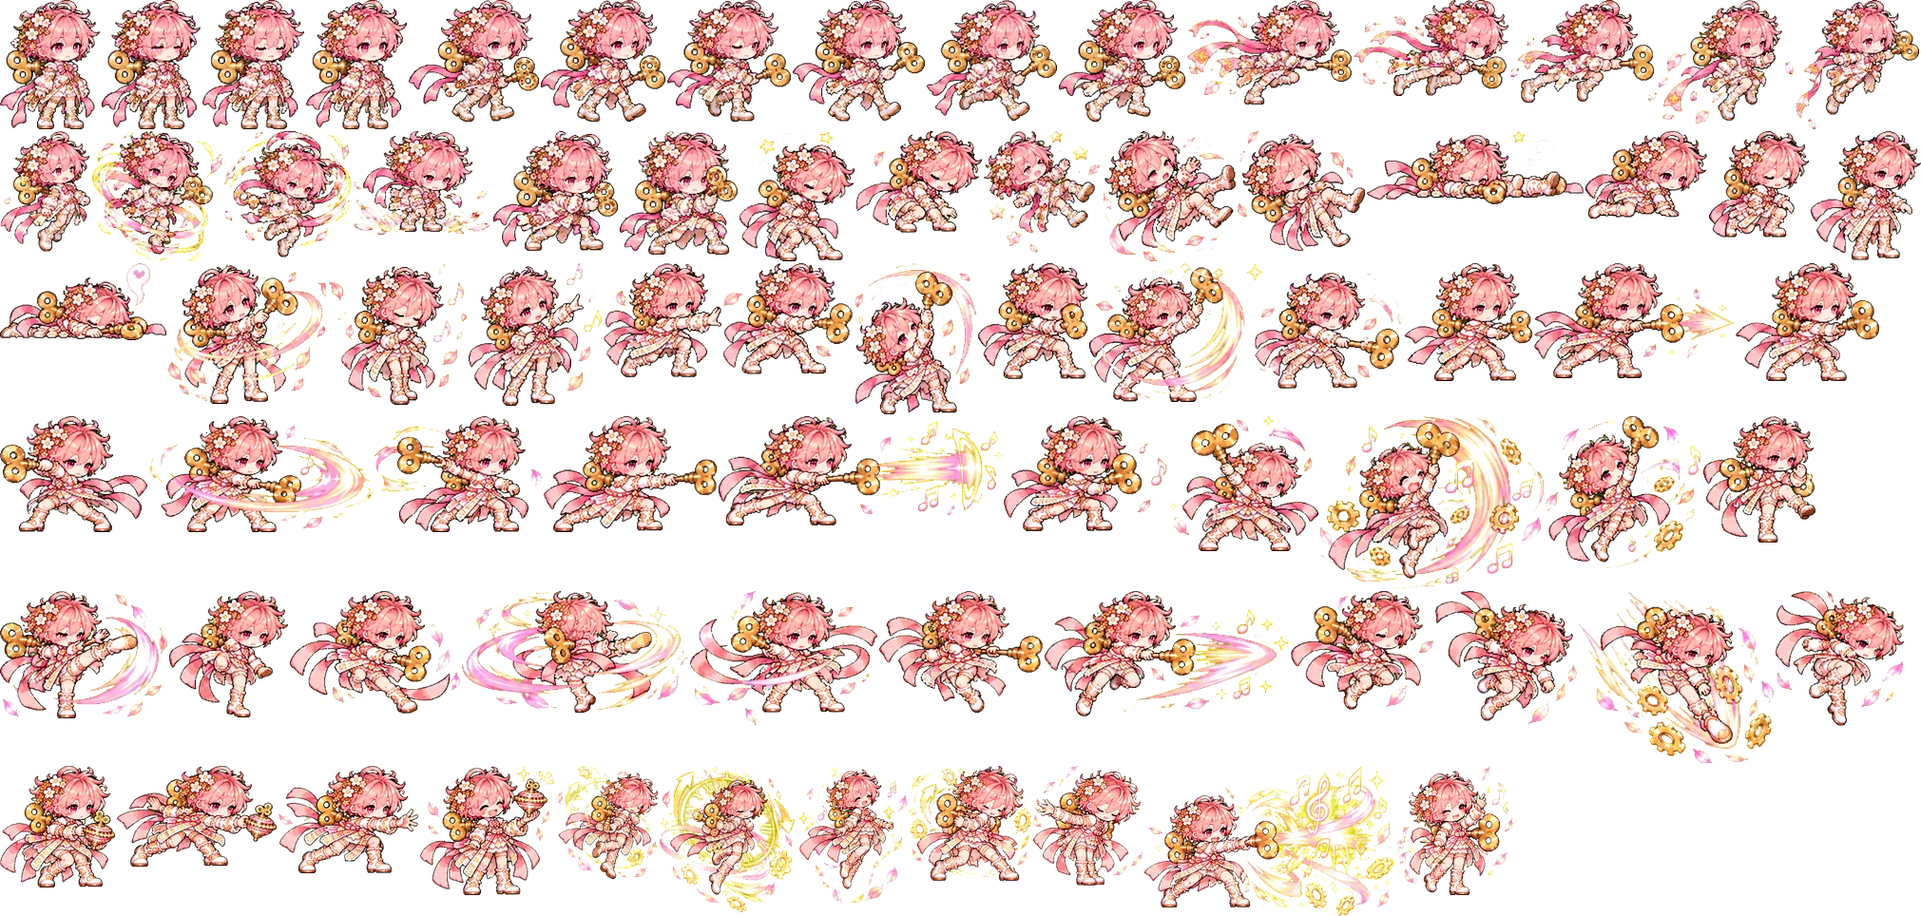
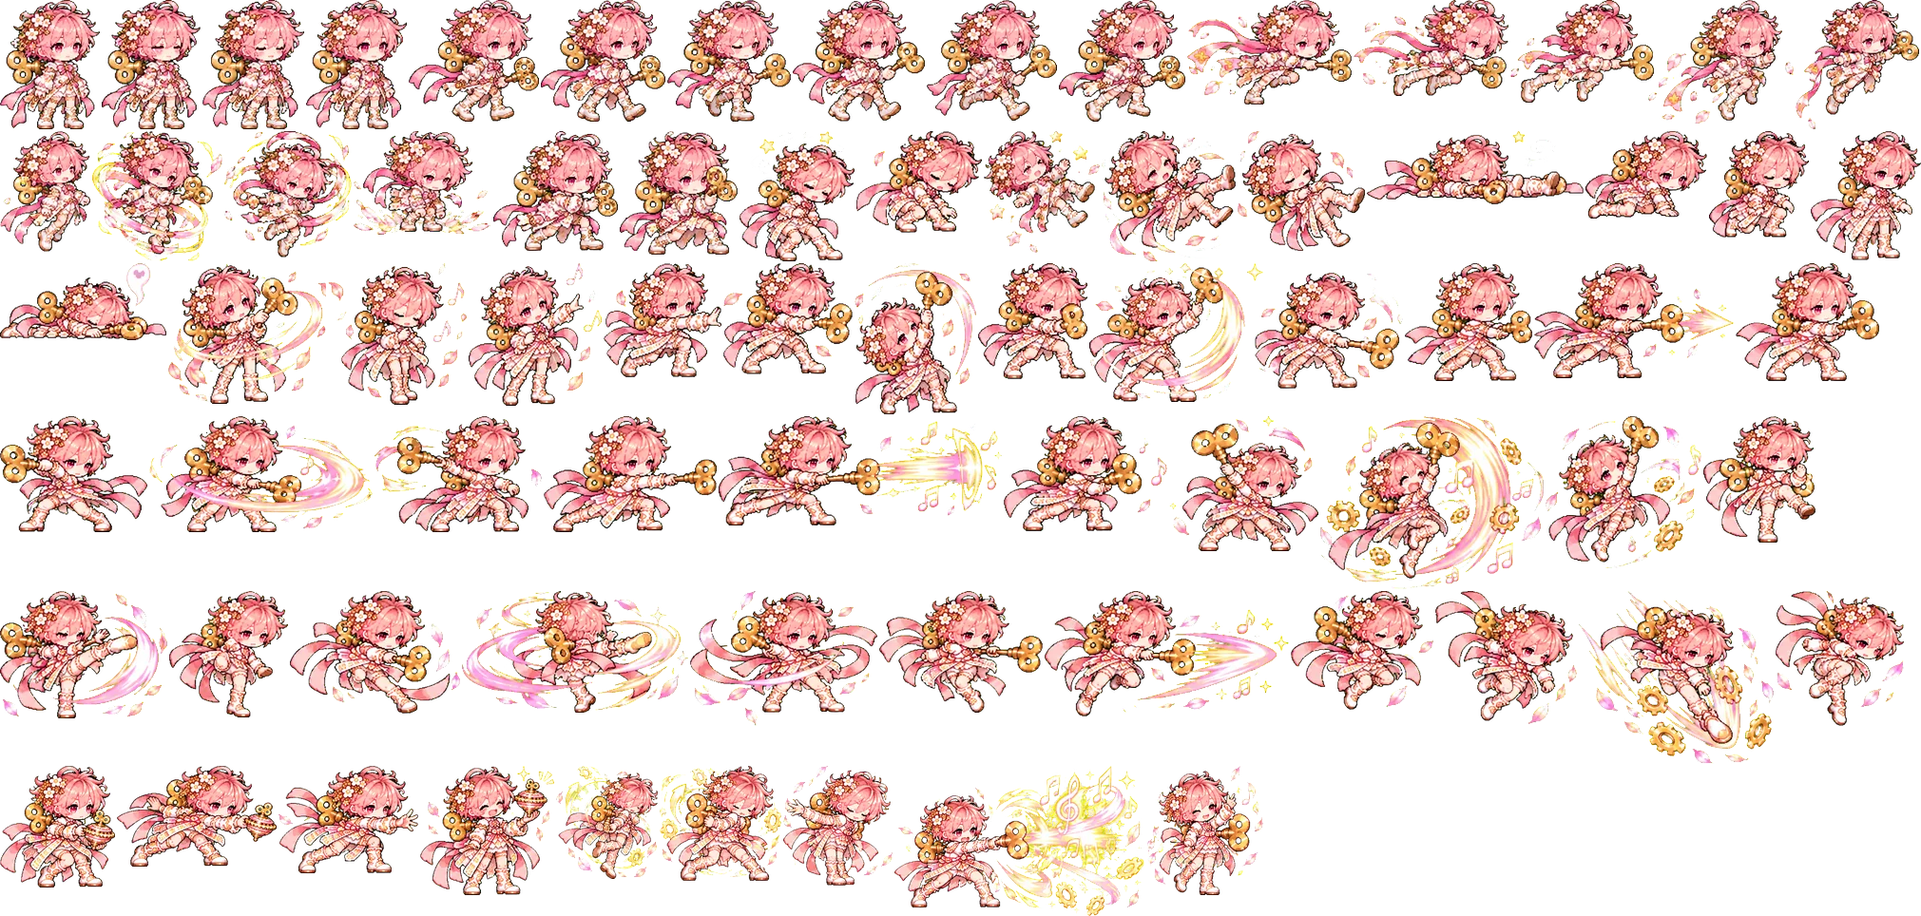
격투: 포르테 공중 L 을 「되감기 낙하」로 바꿈 (SIM_REV 27 · AI_REV 12)
- 태엽 되감기(자리 되감기 · 체력 회복)는 맞는 동안 못 눌러서 쓸 데가 없었음 → 뺌
- 앞쪽 아래로 내리찍고, 맞든 막히든 땅에 닿든 뛰어내린 공중 자리로 되감겨 돌아감 (빈틈 없음, 낭떠러지면 260px 아래에서)
- 맞히면 상대를 내 앞으로 약 12프레임 만에 끌어올려 띄움 → 바로 공중 약 (시뮬: 되감기 뒤 다음 타까지 약 15프레임)
- 발생 7 · 피해 62 · 재사용 대기 130, 그림은 태엽 감기 → 내리찍기 발차기, 내리찍는 동안 분홍 · 금빛 줄
- AI: 아래 앞쪽 상대에게 가끔 내리찍음

Changed region(s): [[0.3429, 0.8402, 0.7793, 1.0]]

diff --git a/web/src/lib/fight/sim.ts b/web/src/lib/fight/sim.ts
@@ -80,8 +80,6 @@ export const IN = {
 const IN_MASK = 511;
 
 const HIST = 24;
-/** 높이 기록 칸 수 (포르테 공중 「태엽 되감기」가 몇 프레임 전 높이로 되감을 수 있나) */
-const HH = 32;
 const INTRO = 100;
 const ROUND_END = 170;
 export const ROUND_SEC = 90;
@@ -302,10 +300,9 @@ export interface Fighter {
   inv: number;
   /** 최근 입력 (마지막이 이번 프레임) */
   hist: number[];
-  /** 최근 자리 · 체력 (마지막이 이번 프레임, HH 칸) — 포르테 「태엽 되감기」 */
-  hh: number[];
-  hx: number[];
-  hhp: number[];
+  /** 포르테 공중 「되감기 낙하」를 시작한 자리 (내리찍은 뒤 여기로 되돌아옴) */
+  rwX: number;
+  rwH: number;
   /** 앙코르 기록: 최근 내가 맞힌 타격 [프레임, 피해] 쌍 (오래된 건 지움) */
   enc: number[];
   /** 앙코르 진행 프레임 (0 = 아님) · 다시 넣을 타격 [몇 프레임째, 피해] 쌍 · 붙잡아 둔 상대 자리 */
@@ -543,9 +540,8 @@ function newFighter(ch: number, side: 0 | 1, map: MapDef): Fighter {
     recov: 0,
     inv: 0,
     hist: new Array(HIST).fill(0),
-    hh: new Array(HH).fill(h),
-    hx: new Array(HH).fill(x),
-    hhp: new Array(HH).fill(CHARS[ch].hp),
+    rwX: x,
+    rwH: h,
     enc: [],
     encT: 0,
     encQ: [],
@@ -601,13 +597,13 @@ export function clone(s: State): State {
     ev: s.ev.slice(),
   };
 }
-const cloneF = (f: Fighter): Fighter => ({ ...f, hist: f.hist.slice(), hh: f.hh.slice(), hx: f.hx.slice(), hhp: f.hhp.slice(), enc: f.enc.slice(), encQ: f.encQ.slice() });
+const cloneF = (f: Fighter): Fighter => ({ ...f, hist: f.hist.slice(), enc: f.enc.slice(), encQ: f.encQ.slice() });
 
 /**
  * 이 빌드의 게임 데이터 지문 (캐릭터 성능·맵) — 온라인에서 서로 다른 빌드끼리 붙었는지 확인.
  * 계산 방식(sim.ts)만 바꿨을 땐 SIM_REV를 올릴 것.
  */
-const SIM_REV = 26;
+const SIM_REV = 27;
 export const BUILD_ID = (() => {
   const str = SIM_REV + JSON.stringify(CHARS.map((c) => [c.hp, c.walk, c.jumpVx, c.dash, c.cd, c.glide, c.hurt, c.width, c.moves])) + JSON.stringify(MAPS.map((m) => [m.plats, m.spawn]));
   let h = 2166136261;
@@ -764,7 +760,7 @@ export function hurtRect(f: Fighter): Rect | null {
 /** 지금 판정이 살아 있는 공격 박스 */
 export function hitRect(f: Fighter): Rect | null {
   const m = moveOf(f);
-  if (f.st !== "atk" || !m || m.proj || m.summon || m.rewind || f.hit) return null;
+  if (f.st !== "atk" || !m || m.proj || m.summon || f.hit) return null;
   if (f.t < m.startup || f.t >= m.startup + m.active) return null;
   return boxRect(f, m.box);
 }
@@ -826,6 +822,7 @@ function startMove(s: State, i: number, id: MoveId) {
   f.aerial = airborneS(s, f) ? 1 : 0;
   const m = moveOf(f)!;
   if (f.aerial && m.hover) f.vh = Math.max(f.vh, m.hover);
+  if (f.aerial && m.rwDive) ((f.rwX = f.x), (f.rwH = f.h));
   if (id === "S") f.cd = m.cd ?? charOf(f).cd; // (공중 버전만 재사용 대기가 다를 수 있음)
   f.chg = 0;
   if (id === "G") f.meter = Math.max(0, f.meter - GUARD_COUNTER_COST);
@@ -1181,7 +1178,6 @@ function control(s: State, i: number) {
       }
       // 연타기: 일정 프레임마다 다시 맞을 수 있게
       if (m.multi && f.t > m.startup && (f.t - m.startup) % m.multi === 0) f.hit = 0;
-      if (m.rewind && f.t === m.startup) rewindAir(s, i, m.rewind);
       if (m.proj && f.t === m.startup) {
         const d = m.proj;
         // 공중에서 쏘면 앞쪽 아래로 비스듬히 내리꽂음 (flat 탄은 수평)
@@ -1230,8 +1226,6 @@ function control(s: State, i: number) {
           return;
         }
       }
-      // 태엽 되감기 뒤: 남은 동작 없이 바로 공중 약 · 발차기 (공중 콤보를 끊김 없이 이어 감)
-      if (m.rewind && f.t > m.startup && !onGround(s, f) && airAttack(s, i)) return;
       // 공중 연속 공격: 공중 약·발차기를 맞히면 짧은 창 안에 다음 공중 약·발차기로 이어 침 (약 4 + 발차기 2까지)
       if (air && f.hit && (f.mv === "J" || f.mv === "K") && f.t > m.startup && f.t <= m.startup + m.active + AIR_CHAIN_WIN) {
         if (airAttack(s, i)) return;
@@ -1398,6 +1392,11 @@ function landed(s: State, i: number, f: Fighter) {
   f.airDash = 0;
   f.dashT = 0;
   const lm = moveOf(f);
+  // 포르테 되감기 낙하: 땅에 닿으면 (판정이 나온 뒤) 시작한 공중 자리로 되돌아감
+  if (f.st === "atk" && f.aerial && f.mv === "S" && lm?.rwDive && f.t >= lm.startup) {
+    rewindDive(s, i);
+    return;
+  }
   // 땅에 닿기 직전에 낸 공중 아이덴티티: 판정이 나오기 전에 착지하면 아무것도 안 나가고 재사용 대기만 돌던 것 (10.16 제나)
   // → 땅 버전으로 이어서 냄 (지난 시작 프레임은 그대로 셈, 재사용 대기는 땅 버전 값)
   if (f.st === "atk" && f.aerial && f.mv === "S" && lm && f.t < lm.startup && !f.hit) {
@@ -1542,10 +1541,6 @@ function respawn(s: State, i: number) {
   f.mark = 0;
   f.trapT = 0;
   f.inv = again ? 0 : RESPAWN_INV;
-  // 되감기 기록도 새 자리로 (떨어지던 자리로 되감지 않게)
-  f.hh.fill(f.h);
-  f.hx.fill(f.x);
-  f.hhp.fill(f.hp);
 }
 
 function physics(s: State, i: number) {
@@ -2447,52 +2442,40 @@ function checkKO(s: State) {
 }
 
 /**
- * 포르테 공중 「태엽 되감기」: 내 높이를 back 프레임 전으로 (더 높았을 때만) + 공중 약 · 발차기 횟수 초기화.
- * 가까운 상대가 공중에서 맞는 중(공중 콤보)이면 상대 높이도 되감고 경직을 이어 줌
+ * 포르테 공중 「되감기 낙하」: 내리찍기가 맞거나(막혀도) 땅에 닿으면 시작한 공중 자리로 되돌아감 (빈틈 없음).
+ * 맞혔으면 상대를 내 앞 · 내 높이 쪽으로 끌어올려 띄움 → 바로 공중 콤보
  */
-function rewindAir(s: State, i: number, back: number) {
+function rewindDive(s: State, i: number) {
   const f = s.p[i];
   const o = s.p[1 - i];
-  const k = Math.max(0, HH - 1 - back);
-  // 콤보 중이면 (가까운 상대가 맞는 중) 둘이 같이 — 판단은 되감기 전 자리로
-  const combo = o.st === "hit" && o.combo > 0 && o.hp > 0 && !o.kd && Math.abs(o.x - f.x) < 160 * SUB;
+  const hit = f.hit && o.st === "hit" && !o.kd && o.hp > 0;
   const fx = f.x,
     fh = f.h;
-  if (combo) {
-    // 같이 되감기: 서로 자리(간격)는 그대로 두고, 둘 다 지난 0.5초 중 가장 높았던 높이까지 거슬러 올라감 → 그대로 이어 침
-    // (0.5초 전 자리로 각자 돌아가면 띄우기 전 자리가 섞여 간격이 엉망이 됨)
-    let top = f.h;
-    for (let j = k; j < HH; j++) top = Math.max(top, f.hh[j]);
-    const dh = top - f.h;
-    f.h += dh;
-    o.h += dh;
-    o.x = f.x + (o.x - f.x);
-  } else {
-    f.x = f.hx[k];
-    f.h = f.hh[k];
-  }
+  f.x = f.rwX;
+  f.h = f.rwH;
   f.vx = 0;
   f.vh = 0;
+  f.dive = 0;
+  f.st = "jump";
+  f.mv = "";
+  f.t = 0;
+  f.aerial = 0;
   f.airUsed = 0;
   f.airK = 0;
   f.airS = 0;
-  // 되감는 동안 잃은 체력의 절반을 되찾음
-  const lost = f.hhp[k] - f.hp;
-  if (lost > 0) f.hp = Math.min(CHARS[f.ch].hp, f.hp + (lost >> 1));
-  // 이 프레임부터 기록도 되감긴 자리로 (바로 또 써도 같은 자리)
-  f.hh.fill(f.h);
-  f.hx.fill(f.x);
-  f.hhp.fill(f.hp);
-  s.ev.push({ k: "rewind", p: i, x: f.x, h: f.h, v: Math.max(0, lost >> 1) });
-  if (fx !== f.x || fh !== f.h) s.ev.push({ k: "rewind", p: i, x: fx, h: fh, v: -1 });
-  if (combo) {
+  s.ev.push({ k: "rewind", p: i, x: fx, h: fh, v: -1 });
+  s.ev.push({ k: "rewind", p: i, x: f.x, h: f.h, v: 0 });
+  if (hit) {
+    // 끌어올리기: 내 높이 조금 아래까지 솟구치게 (천천히 떨어지는 상태), 가로로는 내 앞으로
+    const dh = Math.max(0, f.h - 24 * SUB - o.h);
+    // 약 12프레임 만에 내 앞 높이까지 올라오게 (꼭대기가 거기쯤) — 바로 공중 약으로 받아 침
+    o.vh = Math.max(isqrt(2 * FLOAT_G * 60 * SUB), Math.trunc(dh / 12) + FLOAT_G * 6);
     o.vx = 0;
-    o.vh = 0;
-    o.stun = Math.max(o.stun, 26);
-    // 공중이면 띄운 상태로 (같이 느리게 떨어지며 이어 침)
-    if (airborneS(s, o)) ((o.float = 1), (f.juggle = JUGGLE_HANG));
-    o.hh.fill(o.h);
-    o.hx.fill(o.x);
+    o.float = 1;
+    o.stun = Math.max(o.stun, LAUNCH_STUN - 6);
+    o.pullX = f.x + f.face * 34 * SUB;
+    o.pullT = 10;
+    f.juggle = JUGGLE_HANG;
     s.ev.push({ k: "rewind", p: 1 - i, x: o.x, h: o.h, v: -2 });
   }
 }
@@ -2640,14 +2623,6 @@ export function step(s: State, input: [number, number]): State {
       const f = s.p[i];
       if (f.zap > 0 && --f.zap === 0) zapBurst(s, 1 - i);
     }
-    for (const f of s.p) {
-      f.hh.shift();
-      f.hh.push(f.h);
-      f.hx.shift();
-      f.hx.push(f.x);
-      f.hhp.shift();
-      f.hhp.push(f.hp);
-    }
     control(s, 0);
     control(s, 1);
   } else {
@@ -2665,6 +2640,11 @@ export function step(s: State, input: [number, number]): State {
   if (s.phase === "fight") {
     projectiles(s);
     attacks(s);
+    for (let i = 0; i < 2; i++) {
+      const f = s.p[i];
+      // (낭떠러지로 내리찍어 떨어지는 중이면 260px 아래에서 되감음)
+      if (f.st === "atk" && f.mv === "S" && f.aerial && moveOf(f)?.rwDive && (f.hit || (f.dive && f.rwH - f.h > 260 * SUB))) rewindDive(s, i);
+    }
     encoreStep(s);
     // 경직에서 풀린 프레임에 안 맞았으면 콤보 끝
     for (const f of s.p) {

diff --git a/web/src/components/Fight/guideData.ts b/web/src/components/Fight/guideData.ts
@@ -196,17 +196,17 @@ export const CHAR_GUIDE: Record<string, CharGuide> = {
   },
   forte: {
     style: "공중 콤보형 · 팽이 견제",
-    plan: "다이스 타운에서 놀러 온 오르골 소년. 땅에선 태엽 팽이를 굴려 견제하고, 돌아오는 팽이로 상대를 끌어와요. 공중 콤보 중에 태엽 되감기로 상대와 같이 위로 거슬러 올라가 콤보를 한 번 더 이어 가고, 맞고 있을 땐 0.5초 전 자리로 빠지며 체력을 되찾고, 마지막엔 앙코르로 방금 콤보를 잔상이 다시 넣게 해요. 체력이 낮고 혼자 쓰는 필살기는 약해서 콤보를 길게 넣을수록 강해져요.",
+    plan: "다이스 타운에서 놀러 온 오르골 소년. 땅에선 태엽 팽이를 굴려 견제하고, 돌아오는 팽이로 상대를 끌어와요. 공중에선 되감기 낙하로 내리찍는데, 맞든 막히든 뛰어내린 자리로 되감겨 돌아가서 빈틈이 없어요. 맞히면 상대가 앞으로 끌려 올라와 바로 공중 콤보, 마지막엔 앙코르로 방금 콤보를 잔상이 다시 넣게 해요. 체력이 낮고 혼자 쓰는 필살기는 약해서 콤보를 길게 넣을수록 강해져요.",
     points: [
       "L 태엽 팽이 — 앞으로 굴러갔다가 되감기듯 돌아와요. 가는 길 · 오는 길 한 번씩 때리고, 오는 길에 등 뒤에서 맞으면 포르테 쪽으로 끌려와요. 돌아온 팽이를 받으면 재사용 대기가 0.5초 줄어요",
-      "공중 L 태엽 되감기 — 0.5초 전 자리로 되돌아가고 그동안 잃은 체력 절반을 되찾아요. 공중 약 · 발차기 횟수도 다시 채워요. 콤보 중이면 상대와 같이 (간격은 그대로) 0.5초 동안 가장 높았던 높이로 거슬러 올라가 바로 이어 쳐요. 재사용 대기 2.5초",
+      "공중 L 되감기 낙하 — 앞쪽 아래로 내리찍고, 맞든 막히든 땅에 닿든 뛰어내린 공중 자리로 되감겨 돌아가요 (막혀도 반격 못 받음). 맞히면 상대를 내 앞으로 끌어올려 바로 공중 약으로 이어 쳐요. 재사용 대기 약 2초",
       "I 앙코르 — 맞으면 상대를 붙잡아 두고, 방금 2초 동안 포르테가 맞힌 공격을 잔상이 같은 박자로 75% 피해로 다시 넣은 뒤 날려 버려요. 콤보 바로 뒤에 캔슬해서 써요",
     ],
     combos: [
-      { name: "되감기 콤보", keys: "J + K → 점프 → 공중 J J K → L → 공중 J J K", note: "공중 약 · 발차기를 다 쓴 뒤 되감기로 상대와 같이 다시 떠올라 한 번 더" },
+      { name: "되감기 낙하 콤보", keys: "점프 → (상대 위 앞쪽에서) L → 공중 J J J K", note: "내리찍고 되감겨 올라가면 상대가 앞으로 끌려 올라와요 — 바로 공중 약" },
       { name: "팽이 끌어오기", keys: "L → (팽이가 상대 뒤로 지나감) → 돌아오며 맞음 → J J J J", note: "멀리 던진 팽이가 돌아오며 상대를 내 앞으로 끌어와요" },
       { name: "앙코르", keys: "J J J J → I", note: "약 4단이 맞는 순간 필살기로 캔슬 — 잔상이 약 4단을 한 번 더" },
-      { name: "풀코스 앙코르", keys: "J + K → 점프 → 공중 J J K → L → 공중 J J → (착지) I", note: "공중 콤보를 길게 넣은 뒤 앙코르로 마무리. 잔상이 공중 콤보를 통째로 다시 넣어요" },
+      { name: "풀코스 앙코르", keys: "점프 → L → 공중 J J J K → (착지) J J J J → I", note: "되감기 낙하로 띄워 공중 콤보, 착지해 약 4단을 넣고 앙코르로 마무리. 잔상이 통째로 다시 넣어요" },
     ],
   },
 };

diff --git a/web/src/lib/fight/chars.ts b/web/src/lib/fight/chars.ts
@@ -161,10 +161,10 @@ export interface MoveDef {
   /** 건모 「Alt+F4」: 가드 불가 · 맞으면 이 프레임 동안 멈춤(⏸, 면역 무시) — 그 사이 맞는 타는 멈춤을 안 풀고 남은 만큼 경직 유지 */
   bsod?: number;
   /**
-   * 포르테 공중 「태엽 되감기」: 판정 프레임에 이 프레임 전 자리(좌우 · 높이)로 되돌아가고 그동안 잃은 체력 절반을 되찾음 — 공중 약 · 발차기 횟수도 다시 채움.
-   * 가까이서 콤보 중(상대가 맞는 중)이면 상대 자리도 같이 되감고 경직을 이어 줌 (공중이면 띄운 상태로)
+   * 포르테 공중 「되감기 낙하」: (rush 로 내리찍다가) 맞거나 막히거나 땅에 닿으면 시작한 공중 자리로 되돌아감 —
+   * 맞혔으면 상대를 내 앞 · 내 높이 쪽으로 끌어올려 띄움
    */
-  rewind?: number;
+  rwDive?: boolean;
   /**
    * 포르테 「앙코르」: 맞히면 상대를 붙잡아 두고, 직전 win 프레임 동안 내가 맞힌 타격들을 같은 박자로 pct% 피해로 다시 넣은 뒤 fin 피해로 날림.
    * 막히면 그냥 끝
@@ -1188,8 +1188,8 @@ const RAW: CharSrc[] = [
     idDesc: "굴려 보낸 팽이가 되감기듯 돌아옴 — 가는 길 · 오는 길 한 번씩 때리고, 오는 길에 맞으면 포르테 쪽으로 끌려옴. 받으면 재사용 대기 줄어듦",
     ultName: "앙코르",
     ultDesc: "「앙코르!」 — 맞으면 잔상이 방금 2초 동안 맞힌 공격을 같은 박자로 한 번 더 넣고 날려 버림. 콤보 뒤에 쓸수록 셈",
-    airDesc: "0.5초 전 자리로 되돌아가며 그동안 잃은 체력 절반 회복 — 공중 콤보 중이면 상대도 같이 되감겨 공중 약 · 발차기를 다시 씀",
-    airLabel: "점프 중 L 「태엽 되감기」",
+    airDesc: "태엽 열쇠로 앞쪽 아래로 내리찍고, 맞든 막히든 뛰어내린 공중 자리로 되감겨 돌아감 — 맞히면 상대를 앞으로 끌어올려 바로 공중 콤보",
+    airLabel: "점프 중 L 「되감기 낙하」",
     moves: {
       L: {
         // 약 (J): 손에 든 태엽 열쇠로 톡톡 — 4타는 열쇠를 위로 감아 올려침
@@ -1265,22 +1265,25 @@ const RAW: CharSrc[] = [
         meter: 6,
         box: { x: 0, y: 0, w: 0, h: 0 },
         proj: { speed: 1500, y: 22, w: 30, h: 30, life: 150, flat: true, boomer: { turn: 24, accel: 130, catchCd: 30 } },
-        // 공중 「태엽 되감기」: 0.5초 전 높이로 되감음 (공중 콤보 중이면 상대도) — 재사용 대기 2.5초
+        // 공중 「되감기 낙하」: 태엽 열쇠를 들고 앞쪽 아래로 내리찍음 — 맞든 막히든, 땅에 닿든 시작한 공중 자리로 되돌아감 (빈틈 없음)
+        // 맞히면 상대를 내 앞으로 끌어올려 띄움 → 공중 콤보
         air: {
           proj: undefined,
-          startup: 3,
-          active: 1,
-          recovery: 9,
-          dmg: 0,
-          chip: 0,
-          hitstun: 0,
-          blockstun: 0,
-          push: 0,
-          hitstop: 0,
-          meter: 0,
-          box: { x: 0, y: 0, w: 0, h: 0 },
-          rewind: 30,
-          cd: 150,
+          startup: 7,
+          active: 40,
+          recovery: 4,
+          dmg: 62,
+          chip: 8,
+          hitstun: 30,
+          blockstun: 10,
+          push: 300,
+          hitstop: 8,
+          meter: 7,
+          box: { x: -6, y: 34, w: 48, h: 40 },
+          rush: { vx: 0, airVh: -2300, airVx: 1200 },
+          hover: 500,
+          rwDive: true,
+          cd: 130,
         },
       },
       X: {

diff --git a/web/src/lib/fight/ai.ts b/web/src/lib/fight/ai.ts
@@ -241,7 +241,7 @@ export function aiForRating(r: number, charId?: string): AILevel {
  * AI 지문: 랭크전 봇전은 서버가 같은 경기를 다시 돌려 확인하니, 브라우저와 서버의 AI가 똑같아야 함.
  * 단계 값·보정·콤보 길은 자동으로 들어가고, next() 같은 판단 코드를 바꿨으면 AI_REV 를 올릴 것.
  */
-const AI_REV = 11;
+const AI_REV = 12;
 export const AI_ID = (() => {
   const str = AI_REV + JSON.stringify([AI_LEVELS, RANK_TIERS, AI_RATING, ADJ_AT, CHAR_ADJ, ROUTES, ROUTE_CAP, HUMAN]);
   let h = 0x811c9dc5;
@@ -778,10 +778,7 @@ export class FightAI {
         out |= toward;
         // 공중 연속: 약 위주로 이어 치다 마지막은 발차기 (박자: 판정이 맞은 직후에 누름)
         if (dist < 48 && dy > -25 && dy < 70 && o.stun >= c.moves.J.startup + 2 && this.r() < 0.35 + L.combo * 0.6) {
-          if (c.moves.S.air?.rewind && f.cd === 0 && f.airUsed + f.airK >= 4 && o.floatT < 90 && this.r() < 0.4 + L.combo * 0.6) {
-            // 포르테: 공중 약 · 발차기를 다 쓰면 태엽 되감기로 상대와 같이 다시 떠올라 이어 침
-            press(IN.C);
-          } else if (c.moves.S.air?.hug && f.cd === 0 && !o.hugd && (o.combo >= 3 || f.airUsed >= 3) && this.r() < 0.5 + L.combo * 0.5) {
+          if (c.moves.S.air?.hug && f.cd === 0 && !o.hugd && (o.combo >= 3 || f.airUsed >= 3) && this.r() < 0.5 + L.combo * 0.5) {
             // 곰 포옹으로 마무리: 안고 내리꽂아 기절 → 땅에서 이어 침
             press(IN.C);
           } else if (hu > 0 && f.meter >= 100 && o.combo >= 4 && this.r() < hu && this.ultHits(s, me, 0)) {
@@ -1285,6 +1282,11 @@ export class FightAI {
     // 공중 아이덴티티로 자리 바꾸기 (건모 Alt+Tab): 상대 위에서 내려오는 중이면 가끔
     if (f.st === "jump" && f.cd === 0 && c.moves.S.air?.swap && dist < 50 && dy < -10 && dy > -70 && this.r() < L.aggro * 0.2) {
       out |= toward;
+      press(IN.C);
+      return finish();
+    }
+    // 포르테 되감기 낙하: 아래 앞쪽 상대에게 내리찍음 (빗나가도 되감겨 돌아오니 부담 없이)
+    if (f.st === "jump" && f.cd === 0 && c.moves.S.air?.rwDive && dy < -30 && dy > -200 && dist > 10 && dist < 130 && o.st !== "down" && faceOk && this.r() < 0.03 + L.aggro * 0.06) {
       press(IN.C);
       return finish();
     }

diff --git a/web/src/components/Fight/PatchNotes.tsx b/web/src/components/Fight/PatchNotes.tsx
@@ -22,7 +22,7 @@ export const PATCHES: Patch[] = [
     lines: [
       "새 캐릭터 포르테 — 다이스 타운에서 놀러 온 오르골 소년. 태엽 열쇠로 싸우는 공중 콤보형 (난이도 ★★★)",
       "L 태엽 팽이 — 굴려 보낸 팽이가 되감기듯 돌아와요. 가는 길 · 오는 길 한 번씩 때리고, 오는 길에 맞으면 포르테 쪽으로 끌려와요. 돌아온 팽이를 받으면 재사용 대기 감소",
-      "공중 L 태엽 되감기 — 0.5초 전 자리로 되돌아가며 그동안 잃은 체력 절반 회복. 공중 콤보 중이면 상대와 같이 위로 거슬러 올라가 바로 이어 쳐요",
+      "공중 L 되감기 낙하 — 앞쪽 아래로 내리찍고, 맞든 막히든 뛰어내린 자리로 되감겨 돌아가요. 맞히면 상대를 끌어올려 바로 공중 콤보",
       "I 앙코르 — 맞으면 잔상이 방금 2초 동안 맞힌 공격을 같은 박자로 한 번 더 넣고 날려 버려요",
       "캐릭터 고르기 — 얼굴 칸을 한 줄 5칸으로 (랭크전 · 방도 같은 모양)",
       "땅에 닿기 직전에 쓴 공중 L 이 아무것도 안 나가고 재사용 대기만 돌던 것 — 이제 땅 버전으로 이어서 나가요",

diff --git a/web/src/components/Fight/render.ts b/web/src/components/Fight/render.ts
@@ -1060,6 +1060,13 @@ export class FightRenderer {
           });
       }
     }
+    // 포르테 되감기 낙하: 내리찍는 동안 위로 남는 분홍 · 금빛 줄 (되감겨 돌아갈 길)
+    if (cm?.air?.rwDive && f.st === "atk" && f.mv === "S" && f.aerial && f.dive && s.f % 2 === 0)
+      for (let k = 0; k < 2; k++)
+        this.parts.push({
+          x: x + (Math.random() - 0.5) * 18, y: y - 20 - Math.random() * 30, vx: 0, vy: -1.6, life: 10, max: 10,
+          color: Math.random() < 0.5 ? "#F7A8C8" : "#FFE08A", size: 1.2, kind: "vstreak",
+        });
     // 이반 철곰권 기 모으기: 몸 둘레로 붉은 기가 소용돌이 (모을수록 커지고, 다 모으면 번쩍임)
     if (CHARS[f.ch].id === "ivan" && cm?.charge && f.mv === "S" && !f.aerial && f.chg > 0 && f.t <= cm.charge.at + 1) {
       const full = f.chg >= cm.charge.max;
